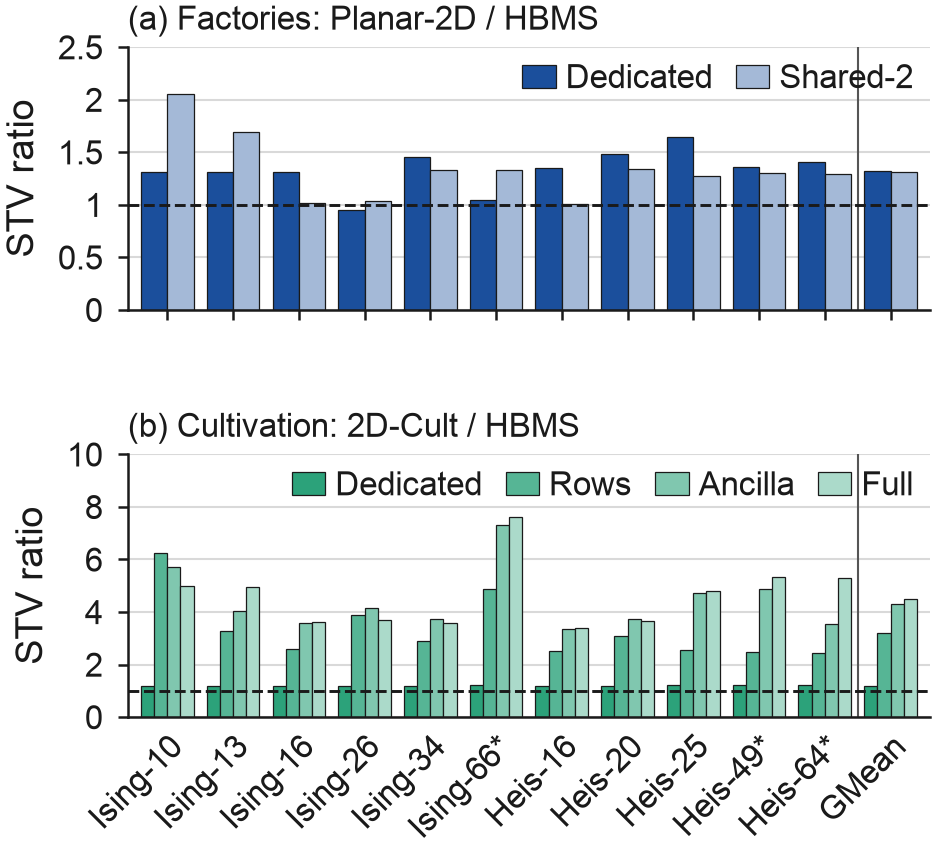
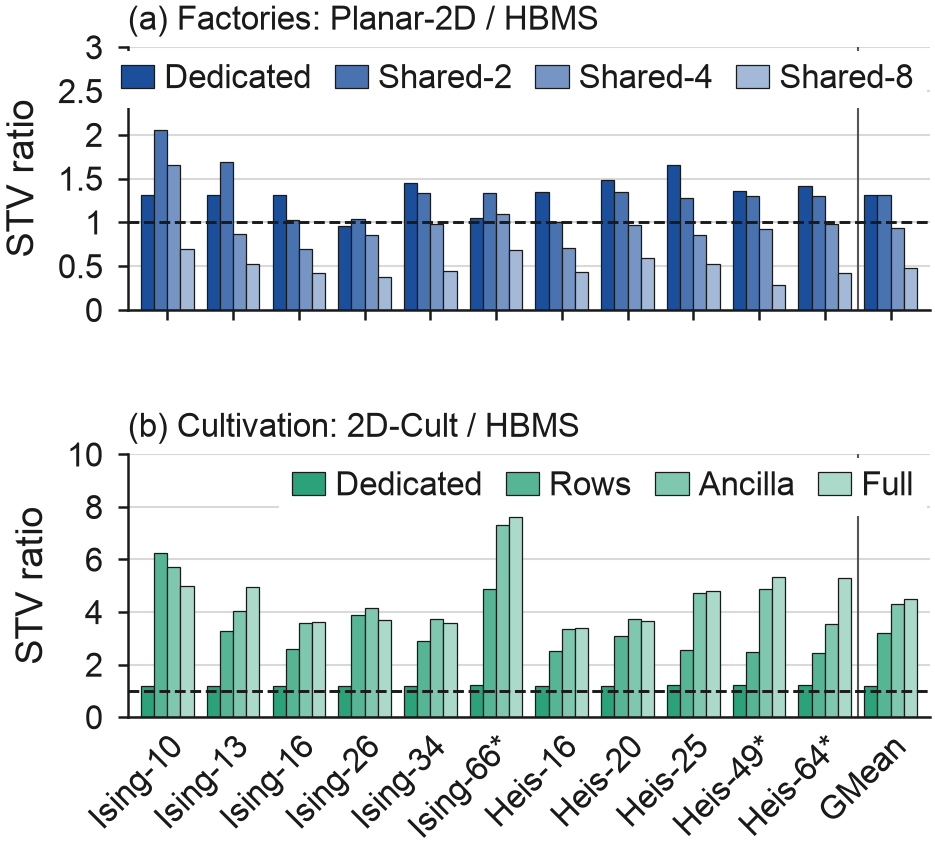
plot_eval.py: eval_stv (a) shows every factory configuration (Dedicated, Shared-2/4/8), legends on a white background

Changed region(s): [[0.062, 0.0306, 0.9925, 0.3666], [0.8995, 0.0611, 0.9925, 0.1222], [0.8995, 0.5805, 0.9305, 0.611]]

diff --git a/scripts/revision/plot_eval.py b/scripts/revision/plot_eval.py
@@ -63,8 +63,8 @@ def per_slot(cells, benches, spec, base):
 
 def eval_stv(cells, benches, path):
     names = [label(b, cells[b]) for b in benches] + ["GMean"]
-    panels = [(FACT, ["D3-k1-fact", "D3-s2-fact-bottom"], FILL["HBM"], None, (2.5, 0.5),
-               "(a) Factories: Planar-2D / HBMS", 2),
+    panels = [(FACT, [s for s, _ in FACT[1]], FILL["HBM"], None, (3, 0.5),
+               "(a) Factories: Planar-2D / HBMS", 4),
               (CULT, [s for s, _ in CULT[1]], FILL["HBM-Cult"], None, (10, 2),
                "(b) Cultivation: 2D-Cult / HBMS", 4)]
     fig, axes = plt.subplots(2, 1, figsize=(COL, 2.9), sharex=True,
@@ -89,7 +89,8 @@ def eval_stv(cells, benches, path):
         ax.set_ylabel("STV ratio")
         ax.text(0.0, 1.04, tag, transform=ax.transAxes, fontsize=8, va="bottom", ha="left")
         ax.legend(loc="upper right", ncol=ncol, handlelength=1.0, columnspacing=0.7,
-                  handletextpad=0.3, borderaxespad=0.1)
+                  handletextpad=0.3, borderaxespad=0.1, frameon=True, facecolor="white",
+                  edgecolor="none", framealpha=1)
     axes[-1].set_xticks(x, names, rotation=45, ha="right", rotation_mode="anchor")
     axes[-1].set_xlim(-0.6, len(names) - 0.4)
     axes[-1].tick_params(axis="x", length=0)
@@ -98,7 +99,8 @@ def eval_stv(cells, benches, path):
     plt.close(fig)
     return ("STV of the planar baseline divided by that of HBMS with the same kind of "
             "magic-state resource, per circuit and as the geometric mean (GMean): (a) "
-            "Planar-2D over HBMS Dedicated and Shared-2, all with factories, and (b) 2D-Cult "
+            "Planar-2D over HBMS Dedicated, Shared-2, Shared-4 and Shared-8, all with "
+            "factories, and (b) 2D-Cult "
             "over HBMS Dedicated, Rows, Ancilla and Full, all with cultivation patches. Above "
             "the dashed line (1), HBMS has the lower STV. Every run at the smallest odd code "
             "distance that meets the program-error target." + STAR)
